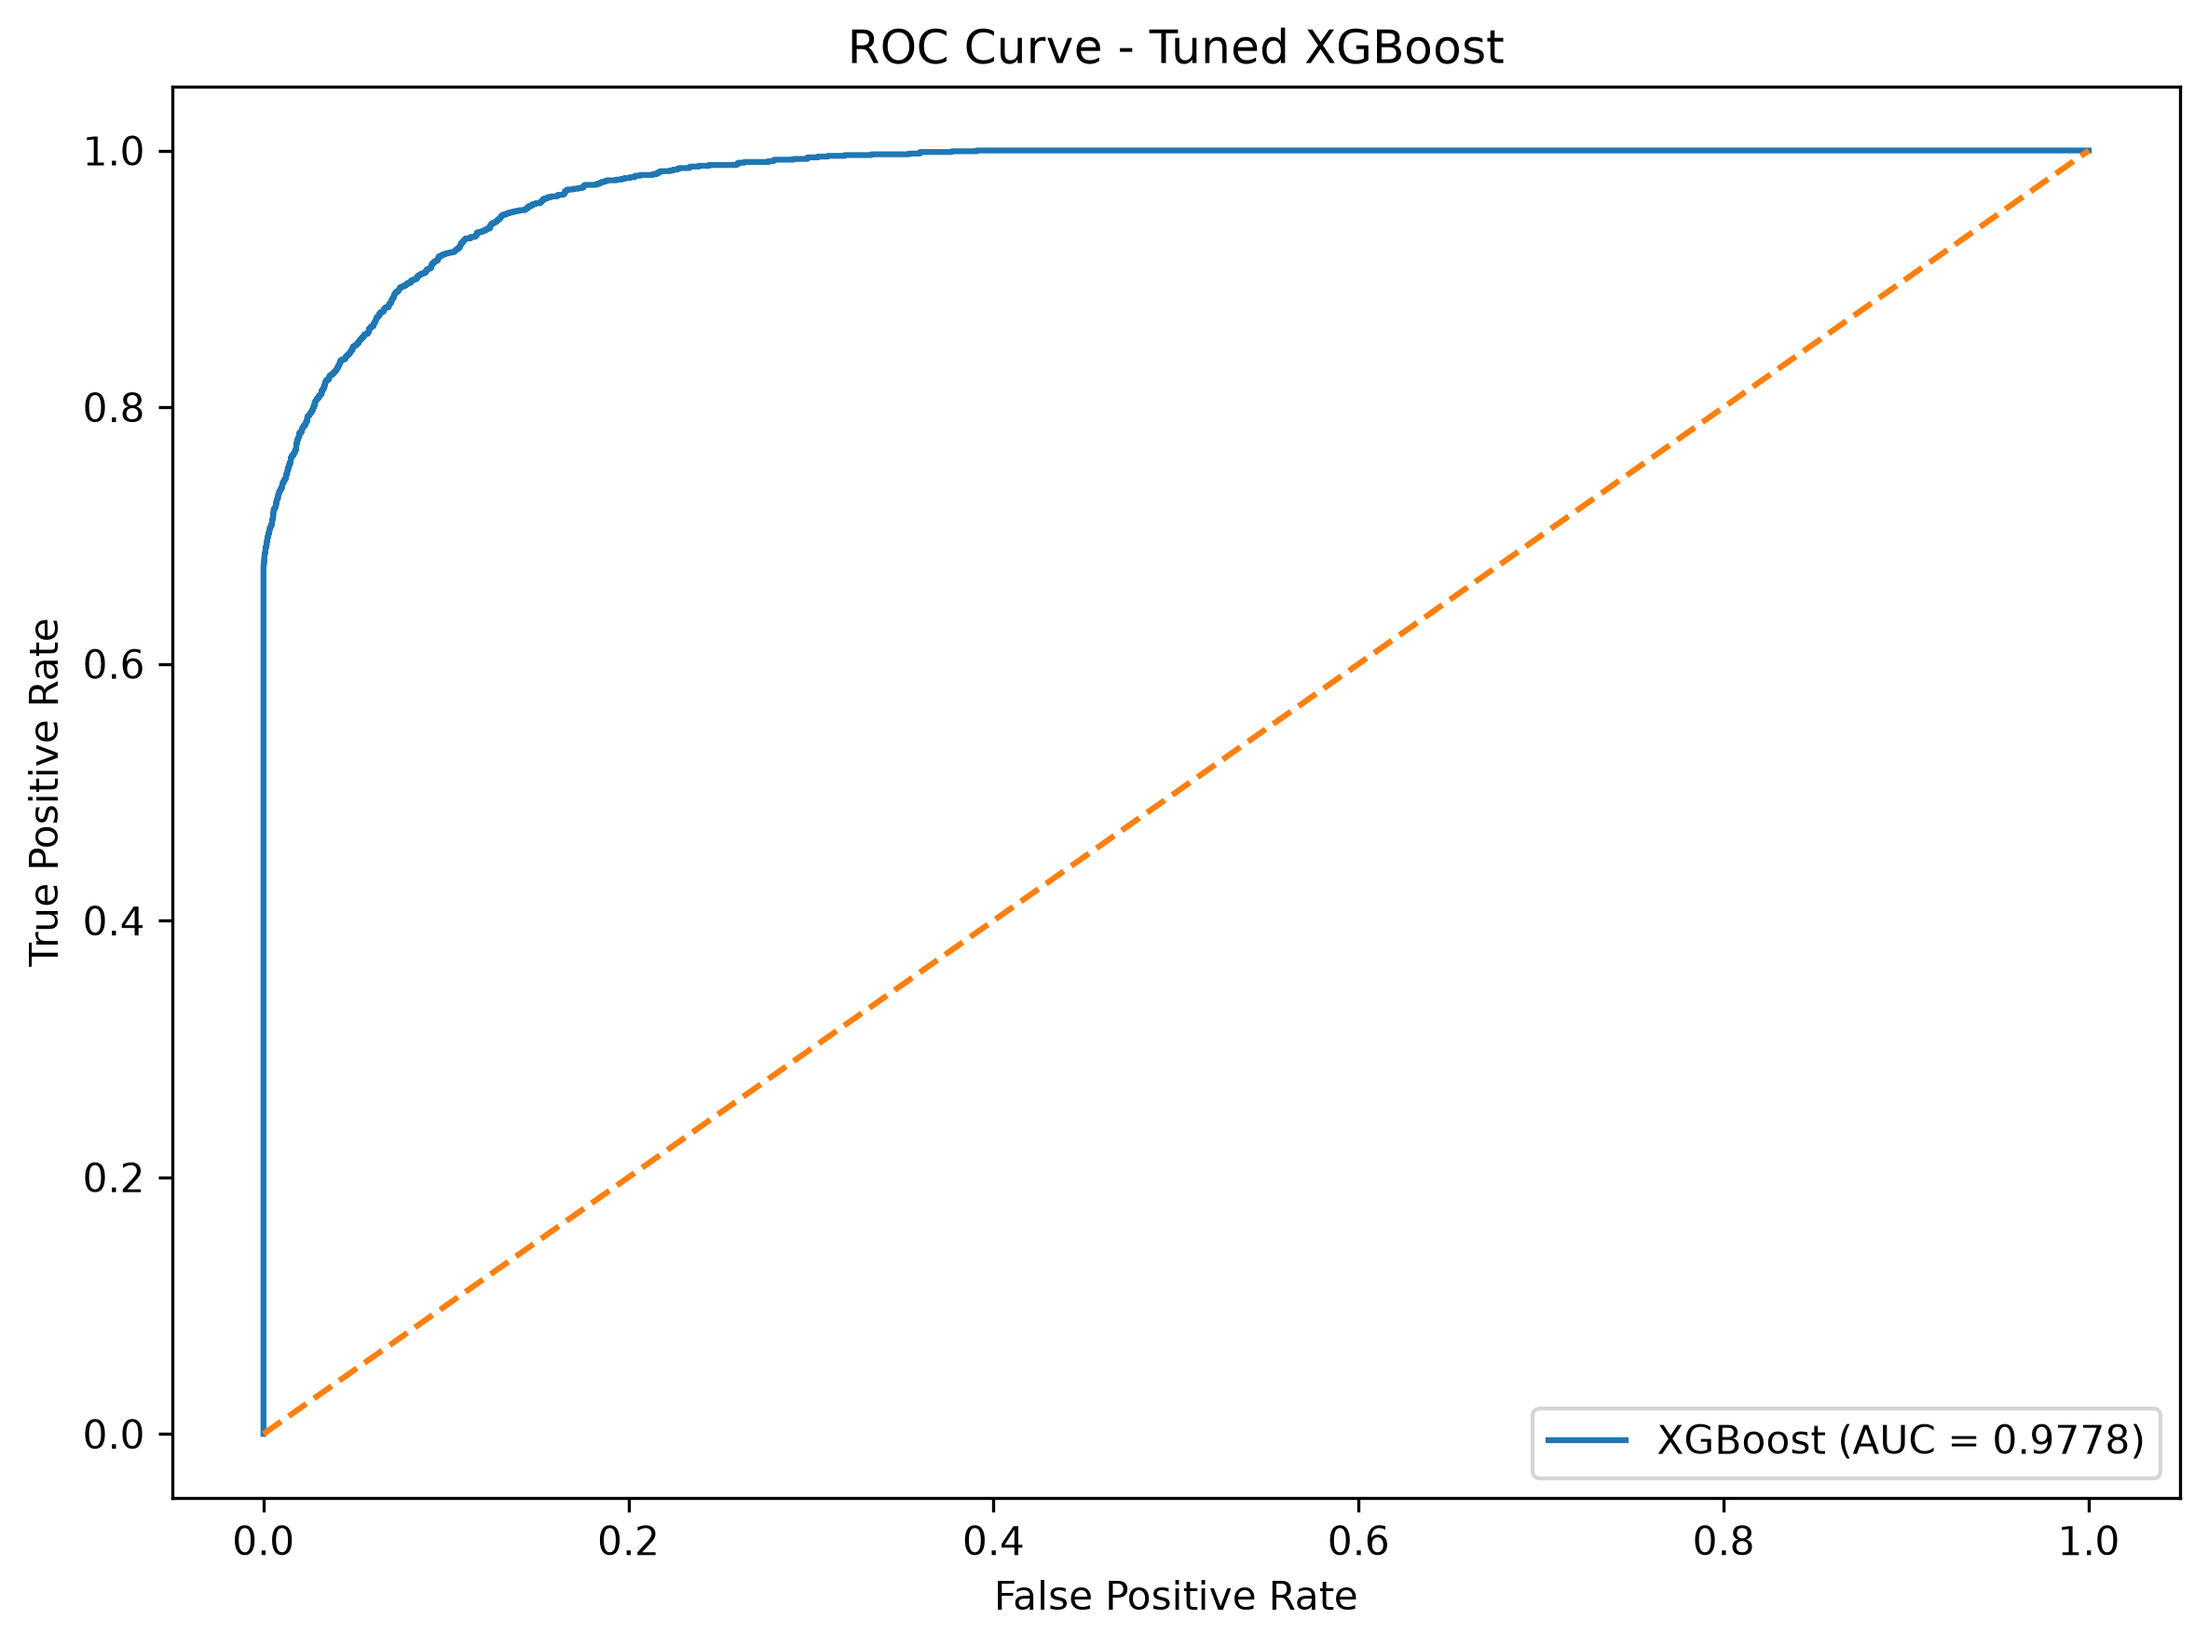
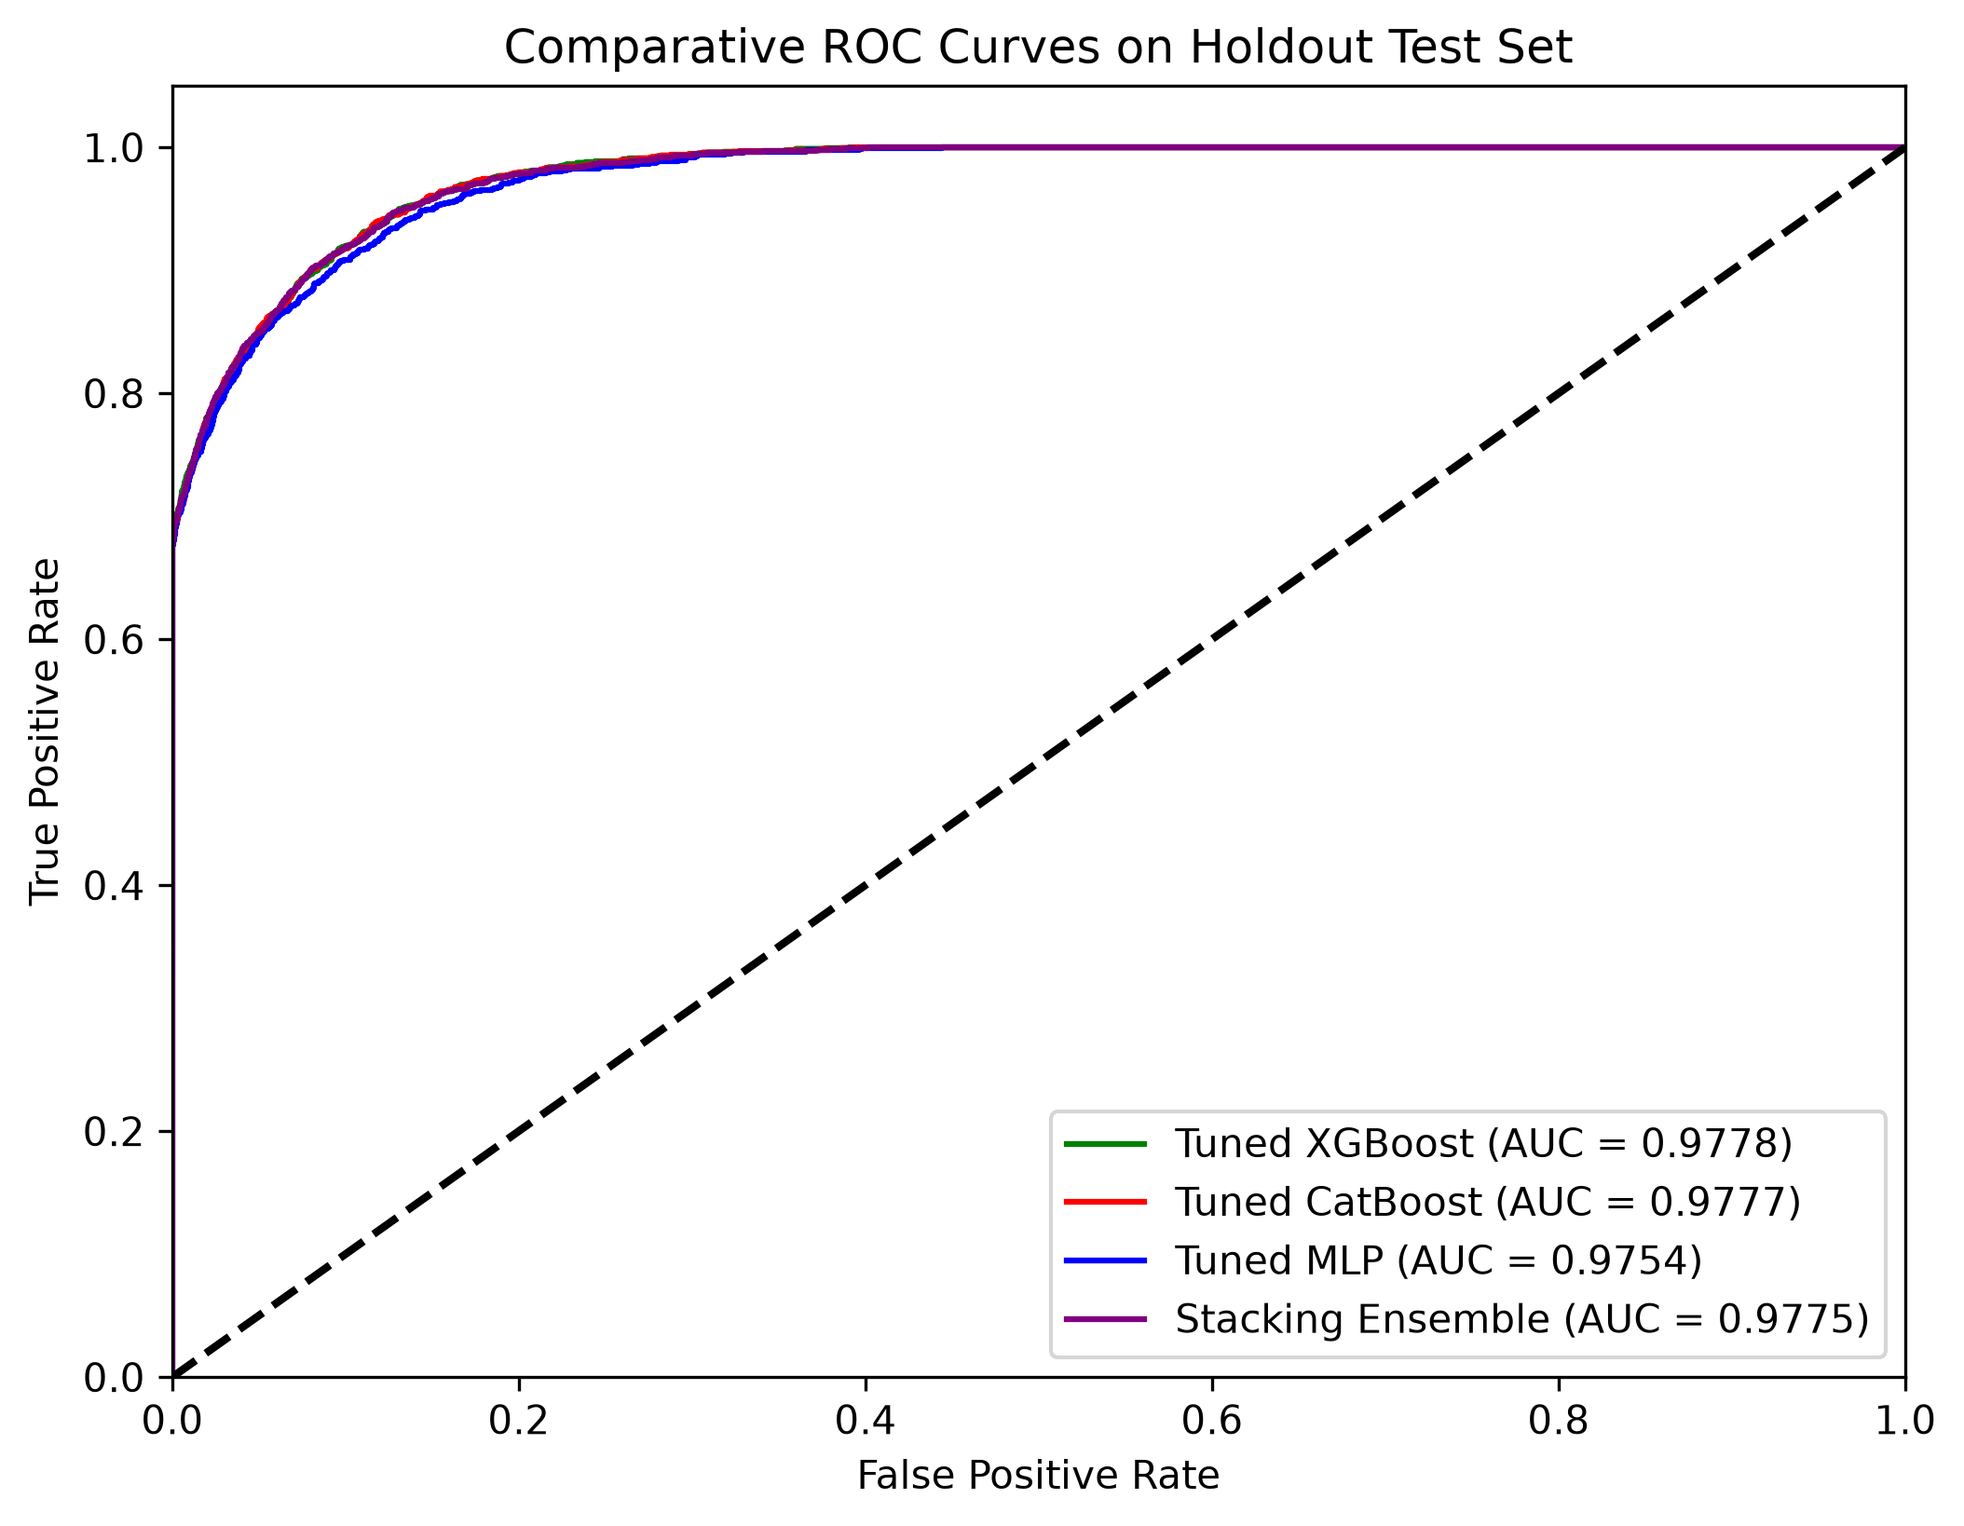
docs: remove duplicate SHAP table and generate proper comparative ROC plot

diff --git a/paper/mainnnn.tex b/paper/mainnnn.tex
@@ -432,26 +432,7 @@ The explainability analysis is performed on the final tuned XGBoost model. Two l
 
 The global SHAP analysis calculates the mean absolute SHAP value for each feature. This provides a ranking of the features according to their average contribution to the model's predictions.
 
-\begin{table}[t]
-\caption{Global SHAP Feature Importance}
-\centering
-\begin{tabular}{lc}
-\toprule
-Feature & Mean Absolute SHAP \\
-\midrule
-HbA1c level & 2.066857 \\
-Blood glucose level & 1.470601 \\
-Age & 0.705583 \\
-BMI & 0.347938 \\
-Smoking history -- No Info & 0.176485 \\
-Hypertension & 0.096649 \\
-Gender -- Male & 0.091839 \\
-Heart disease & 0.069918 \\
-Gender -- Female & 0.026854 \\
-Smoking history -- former & 0.016825 \\
-\bottomrule
-\end{tabular}
-\end{table}
+
 
 The results indicate that HbA1c level and blood glucose level are the dominant contributors to the predictions of the selected model. Age and BMI also provide substantial contributions, although their average effects are smaller than those of the two glucose-related variables.
 
